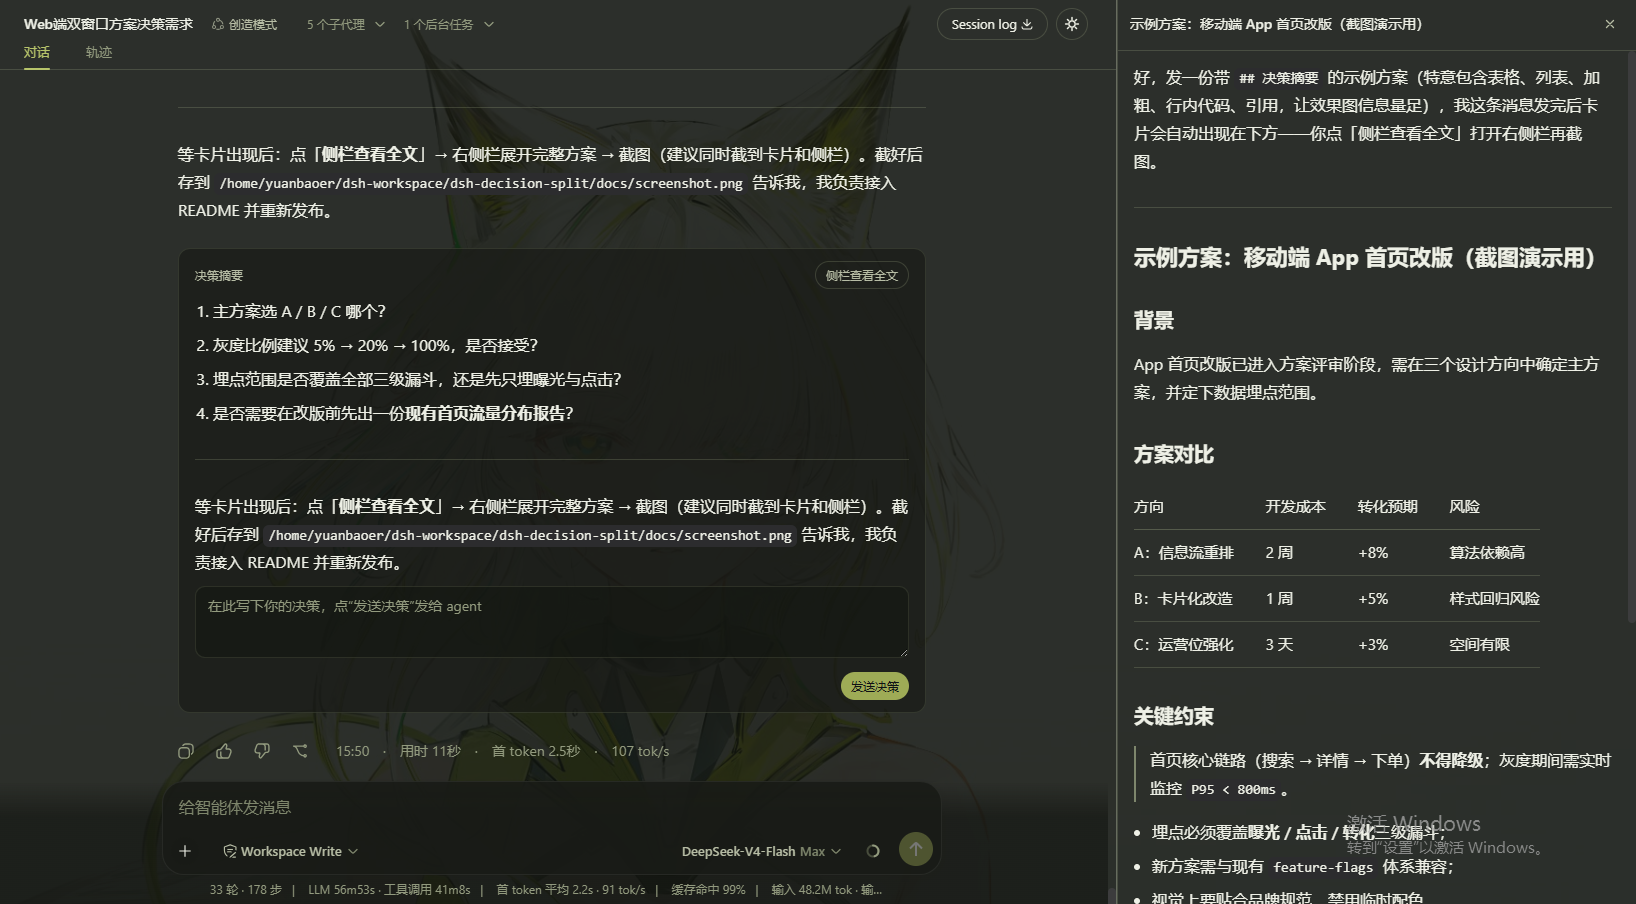
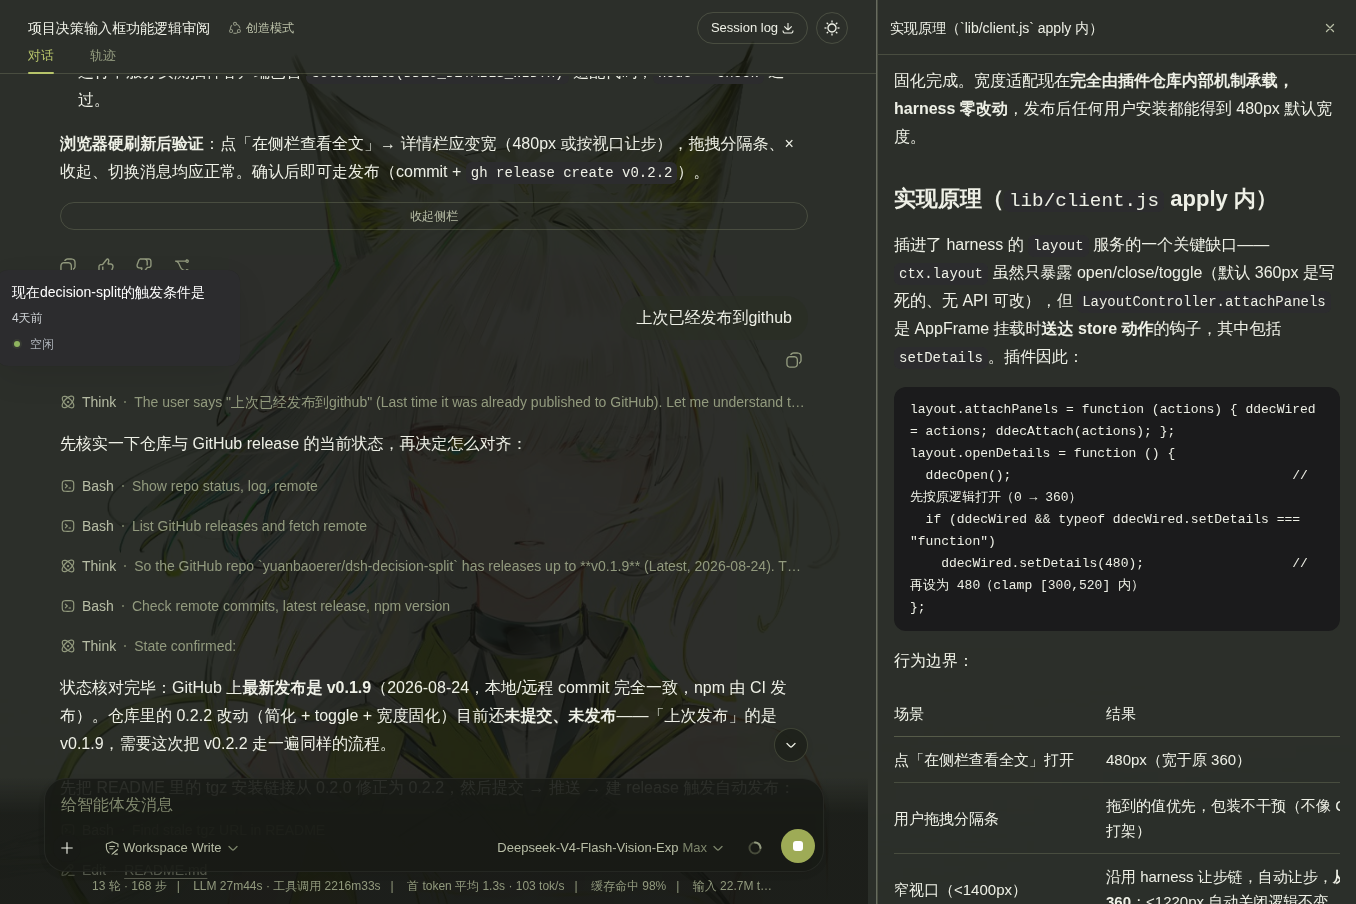
docs: 更换效果图为 0.2.2 新 UI（侧栏入口 + 480px 详情栏，实机截图）

diff --git a/README.md b/README.md
@@ -14,7 +14,7 @@
 
 ![dsh-decision-split 效果图](https://raw.githubusercontent.com/yuanbaoerer/dsh-decision-split/master/docs/dsh-decision-split.png)
 
-*消息尾部的「在侧栏查看全文」入口，以及右侧详情栏的完整方案展示。*
+*消息尾部的「在侧栏查看全文」入口（打开时显示为「收起侧栏」），以及右侧详情栏（480px）独立滚动展示的完整内容。*
 
 ## 安装
 
